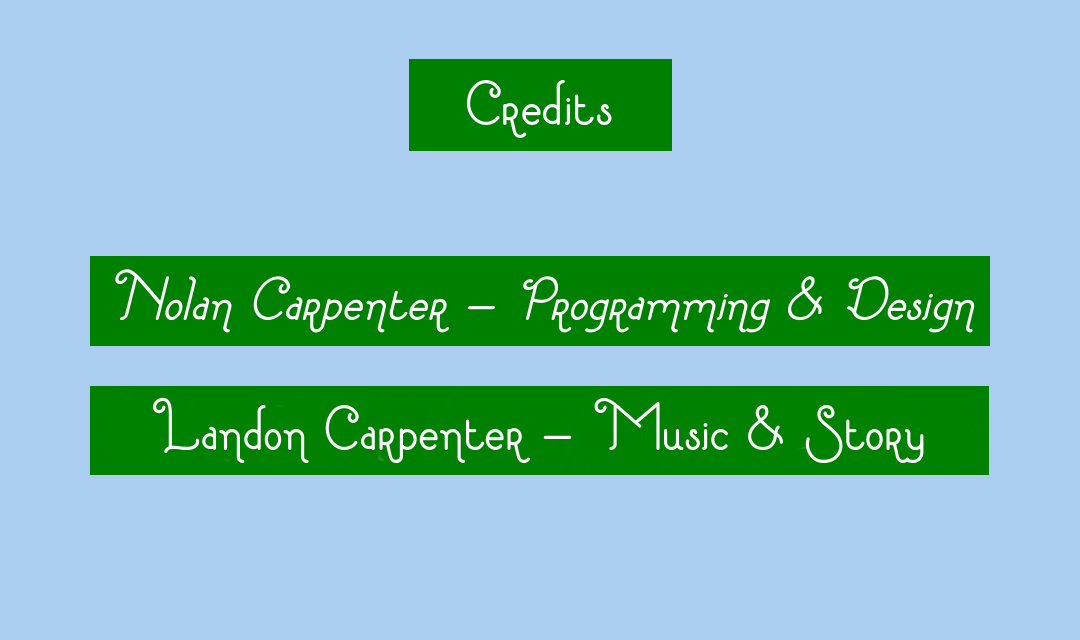
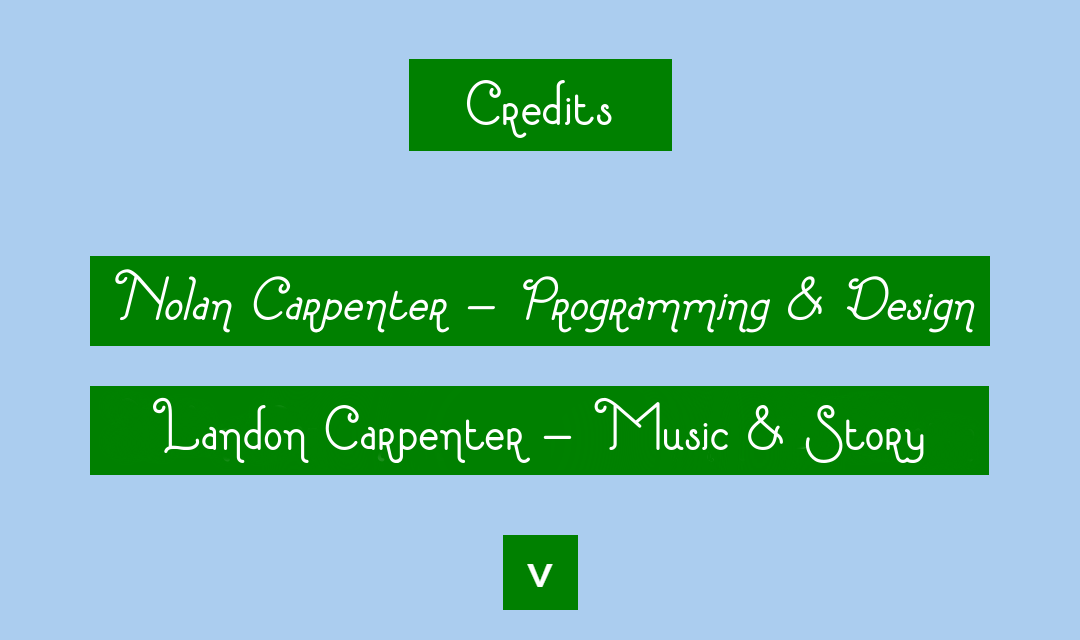
add second credits page

Changed region(s): [[0.4583, 0.8125, 0.55, 0.9688]]

diff --git a/Mice-Eat-Cats.cpp b/Mice-Eat-Cats.cpp
@@ -30,6 +30,7 @@ ALLEGRO_BITMAP* houseentryway1 = NULL;
 ALLEGRO_BITMAP* houseentryway2 = NULL;
 ALLEGRO_BITMAP* houseentryway3 = NULL;
 ALLEGRO_BITMAP* houseentryway4 = NULL;
+ALLEGRO_BITMAP* creditsbck1 = NULL;
 ALLEGRO_BITMAP* finish = NULL;
 ALLEGRO_DISPLAY* display = NULL;
 ALLEGRO_SAMPLE_INSTANCE* gongInstance = NULL;
@@ -220,6 +221,7 @@ int changeSound()
 int closeDisplay()
 {
 	al_destroy_display(display);
+	al_destroy_bitmap(creditsbck1);
 	al_destroy_bitmap(levelpassed);
 	al_destroy_bitmap(houseentryway);
 	al_destroy_bitmap(houseentryway1);
@@ -255,9 +257,14 @@ int closeDisplay()
 	return 0;
 }
 
-int drawCredits()
+int drawCredits(bool secondPage)
 {
-	al_draw_bitmap(creditsbck, 0, 0, 0);
+	if (!secondPage) {
+		al_draw_bitmap(creditsbck, 0, 0, 0);
+	}
+	else {
+		al_draw_bitmap(creditsbck1, 0, 0, 0);
+	}
 	//draw here
 	if (waitingFoot == false) {
 		al_draw_bitmap(foot, 0, footY, 0);
@@ -734,9 +741,9 @@ int credits()
 
 	bool inCredits = true;
 
-	bool mouse_button_1 = false;
+	bool secondPage = false;
 
-	drawCredits();
+	bool mouse_button_1 = false;
 
 	while (inCredits) {
 		ALLEGRO_EVENT event;
@@ -760,7 +767,20 @@ int credits()
 		}
 		else {
 			if (!(state.buttons & 1)) {
-				inCredits = false;
+				if (state.x >= 503 && state.x <= 578 && state.y >= 535 && state.y <= 605) {
+					if (secondPage) {
+						fade(creditsbck1, 0, true, 39);
+						fade(creditsbck, 0, false, 39);
+					}
+					else {
+						fade(creditsbck, 0, true, 39);
+						fade(creditsbck1, 0, false, 39);
+					}
+					secondPage = !secondPage;
+				}
+				else {
+					inCredits = false;
+				}
 				mouse_button_1 = false;
 			}
 		}
@@ -771,11 +791,18 @@ int credits()
 				inCredits = false;
 				endProcess = true;
 				break;
+			case ALLEGRO_EVENT_TIMER:
+				drawCredits(secondPage);
 			}
 		}
 	}
 
-	fade(creditsbck, 0, true, 39);
+	if (secondPage) {
+		fade(creditsbck1, 0, true, 39);
+	}
+	else {
+		fade(creditsbck, 0, true, 39);
+	}
 	fade(menubck, 0, false, 39);
 
 	return 0;
@@ -1012,6 +1039,7 @@ int main(int argc, char* argv[])
 	levelBackground[1] = al_load_bitmap("level2.png");;
 	foot = al_load_bitmap("foot.png");
 	creditsbck = al_load_bitmap("creditsbck.png");
+	creditsbck1 = al_load_bitmap("creditsbck1.png");
 	optionsybck = al_load_bitmap("optionsybck.png");
 	optionsxbck = al_load_bitmap("optionsxbck.png");
 	mouse = al_load_bitmap("mouse.png");
